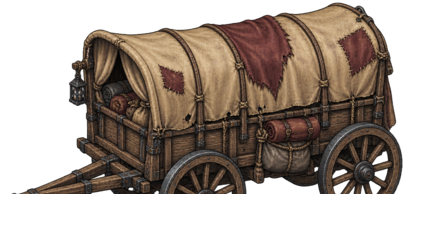
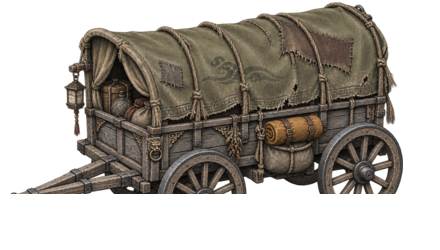
feat(assets): 更新营地镇灵灯与补给马车
- 新增灰瓦灯柱和灰绿帆布马车透明源稿并沿原轮廓分层。

- 离线构建复用透明单体定位，篝火重建输出一致。

- 营地实走、车夫到达、编辑器与导出检查通过，窗口绘制与节点数量一致。

diff --git a/tools/build_camp_style_full_b_v2.py b/tools/build_camp_style_full_b_v2.py
@@ -32,6 +32,12 @@ LARGE_ENTITIES = {
     "caravan": 97,
     "training_fire": 25,
 }
+# 新设施按旧图主体在双倍参考画布中的宽、高、左边距和底边定位。
+FACILITY_FRAMES = {
+    "training_fire": (76, 68, 48, 31, 13, 57),
+    "guardian_lamp": (168, 300, 62, 300, 53, 300),
+    "caravan": (440, 250, 403, 248, 0, 250),
+}
 
 
 def write_ground_tile(output, scratch):
@@ -187,8 +193,8 @@ def write_split_entity(name, entry, cut_y, output, scratch):
     source = SOURCE / f"{name}.png"
     full = scratch / f"{name}_full.png"
     back_crop = scratch / f"{name}_back_crop.png"
-    if name == "training_fire":
-        write_training_fire_frame(width, height, full, scratch)
+    if name in FACILITY_FRAMES and (SOURCE_V2 / f"{name}.png").is_file():
+        write_facility_frame(name, width, height, full, scratch)
     else:
         magick(source, "-trim", "+repage", "-resize", f"{width}x{height}!", "-strip", full)
     magick(full, "-crop", f"{width}x{cut}+0+0", "+repage", "-background", "none",
@@ -202,21 +208,22 @@ def write_split_entity(name, entry, cut_y, output, scratch):
             "front": f"res://assets/maps/camp_style_full_b_v2/{name}_front.png"}
 
 
-def write_training_fire_frame(width, height, output, scratch):
-    """裁出透明火塘，按原火塘宽度及地面接触线合入当前参考画幅。"""
-    source = SOURCE_V2 / "training_fire.png"
+def write_facility_frame(name, width, height, output, scratch):
+    """裁出审核过的透明单体，按原地面接触线和主体占地合入参考画幅。"""
+    source = SOURCE_V2 / f"{name}.png"
     # 主体边界来自大于 10% 的 alpha，只用于裁切，源图内部的透明度保持不变。
     crop = subprocess.check_output(
         ["magick", str(source), "-alpha", "extract", "-threshold", "10%",
          "-trim", "-format", "%wx%h%O", "info:"],
         text=True,
     )
-    piece = scratch / "training_fire_piece.png"
-    piece_width = round(width * 48 / 76)
-    piece_height = round(height * 31 / 68)
+    frame_width, frame_height, subject_width, subject_height, left, bottom = FACILITY_FRAMES[name]
+    piece = scratch / f"{name}_piece.png"
+    piece_width = round(width * subject_width / frame_width)
+    piece_height = round(height * subject_height / frame_height)
     magick(source, "-crop", crop, "+repage", "-resize", f"{piece_width}x{piece_height}!", piece)
-    x = round(width * 13 / 76)
-    y = round(height * 57 / 68) - piece_height
+    x = round(width * left / frame_width)
+    y = round(height * bottom / frame_height) - piece_height
     magick("-size", f"{width}x{height}", "xc:none", piece, "-geometry", f"+{x}+{y}",
            "-compose", "Over", "-composite", "-strip", output)
 

diff --git a/docs/素材设计/100-连续开发计划与验收台账.md b/docs/素材设计/100-连续开发计划与验收台账.md
@@ -108,3 +108,9 @@ CampModularRuntimeTest、CampLiveIntegrationTest通过。CampFullArtAcceptanceTe
 窗口对照三轮各 600 帧，每轮实际绘制 599 帧。基线和新版本均为 55 次绘制、108 个节点及 97,701,293 字节监测纹理内存。装配耗时 129.64/126.01/124.86 ms 与 129.65/125.47/125.07 ms。帧时间中位数 9.56/9.59/8.39 ms 与 8.52/8.53/8.64 ms。P95 为 14.80/11.10/14.39 ms 与 16.21/13.50/13.15 ms。P99 为 45.36/14.37/14.82 ms 与 40.57/13.88/13.67 ms。各轮峰值波动显著，分别为 204.69/15.36/83.22 ms 与 337.81/16.84/81.99 ms。
 
 营地全图、集成、实走、编辑器、第一章流程和窗口检查通过。macOS ZIP 通过资源检查，营火两层的导入纹理均已入包。
+
+## 后续实装：镇灵灯和营地马车
+
+内置 imagegen 生成灰瓦镇灵灯和旧帆布马车，按旧贴图主体画幅和脚底位置生成前后两层。篝火与两项新设施共用透明单体的离线构建入口，已核对篝火重新构建产物与原文件一致。灯光仍绘在灯罩内，不新增光源或粒子。营地路线、遮挡、车夫交互、第一章流程、编辑器重建及 macOS ZIP 资源检查通过。
+
+窗口固定镜头三轮前后对照各采集 600 帧，每轮实际绘制 599 帧。更换前后均为 55 次绘制、108 个节点与 97,701,293 字节监测纹理内存。装配耗时 129.29/126.53/124.88 ms 与 132.86/125.12/126.51 ms。中位数为 8.71/8.31/8.34 ms 与 10.39/8.30/8.99 ms，P95 为 16.01/12.69/13.17 ms 与 14.80/14.11/14.42 ms，P99 为 49.61/13.85/13.91 ms 与 35.48/14.85/14.82 ms，峰值为 339.82/20.48/82.12 ms 与 54.33/84.05/18.57 ms。静态窗口帧时受波动影响，不能作为战斗帧率结论。

diff --git a/art_source/environment/camp_style_full_b_v2/README.md b/art_source/environment/camp_style_full_b_v2/README.md
@@ -5,3 +5,5 @@
 `tools/build_camp_style_full_b_v2.py` 用这些源图和 `data/map_art/camp_whitebox_v2.json` 生成 `assets/maps/camp_style_full_b_v2/`。保留的建筑、长老树、马车和中央灯仍从 `art_source/environment/camp_style_full_b/` 制作。原生成图保留在此目录；脚本输出的循环地纹、碎石路与分层整体实体是唯一正式运行素材。
 
 `training_fire.png` 为内置 imagegen 生成的灰石火塘。原营火前层仅用于占地和视角参考，完整提示见 `training_fire_prompt.txt`。构建器从透明源稿裁出主体，再按原火塘宽 48 像素及底边第 57 像素定位到 76×68 的运行画幅。按原第 50 像素分为背层和前沿，输出 `training_fire_back.png` 与 `training_fire_front.png`。火苗为静态图像。
+
+`guardian_lamp.png` 与 `caravan.png` 是内置 imagegen 制作的灰瓦镇灵灯与旧帆布马车，参考本项目原单体的镜头方向和落地位置，完整提示随源稿保存。构建器沿用正式实体的 168×300 与 440×250 像素画幅、原分层切线和脚底坐标。灯光留在灯罩的贴图内。构建后的四张图位于 `assets/maps/camp_style_full_b_v2/`。

diff --git a/data/maps/ch01/camp/README.md b/data/maps/ch01/camp/README.md
@@ -70,3 +70,5 @@ Boss 刷新：无
 路肩从正式道路掩码选取 25 处树根或碎石，共用一张贴花图集与一张静态网格。地面贴花位于道路上方、建筑和角色下方，不参与通行。
 
 训练区四段木栅随正式布局 ID 应用旧木色调。营火换成灰石火塘和小火苗，仍按原画幅、脚底排序和前后两层绘制。围栏与火塘占地、训练木桩和通行路线沿用原布局。
+
+镇灵灯与营地马车采用新绘制的透明单体，分别为灰瓦灯柱与灰绿补丁帆布车。灯柱、马车仍使用原位置、前后图层和占地。车夫服务入口保留原坐标。
